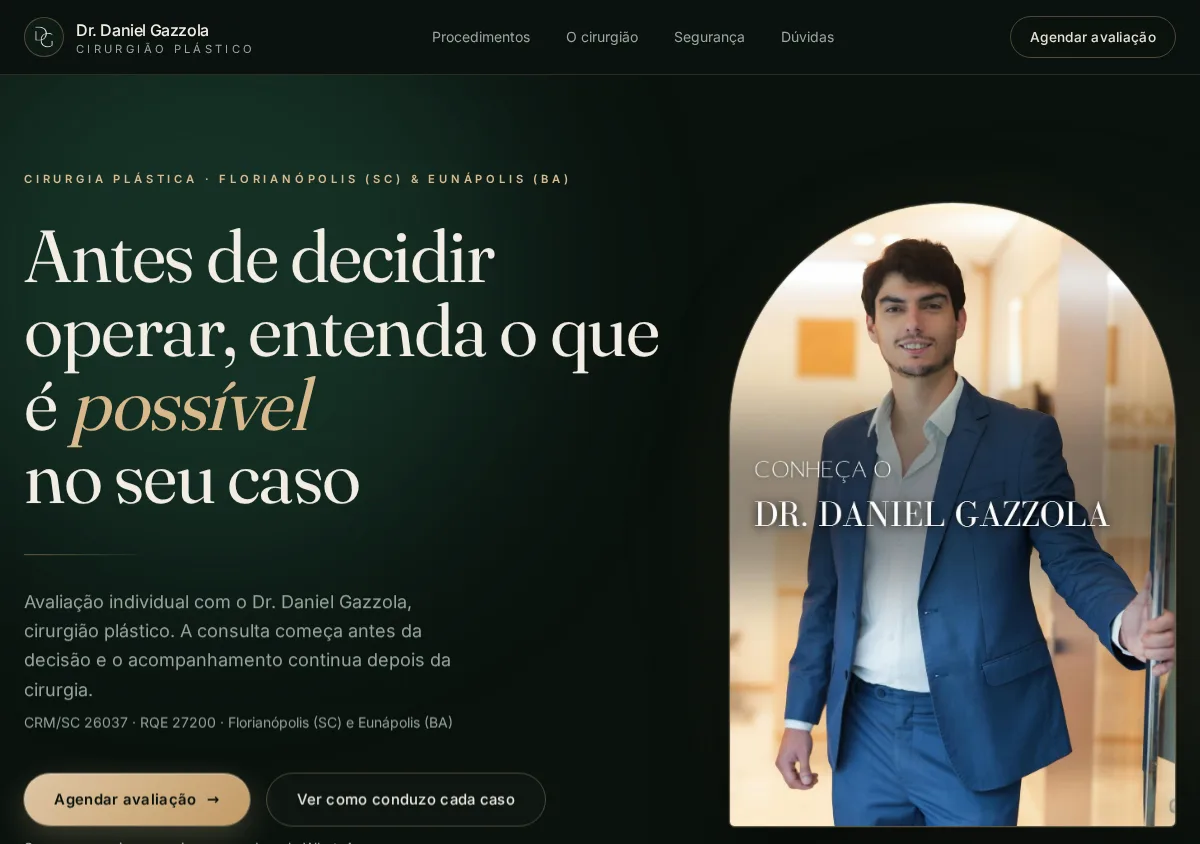
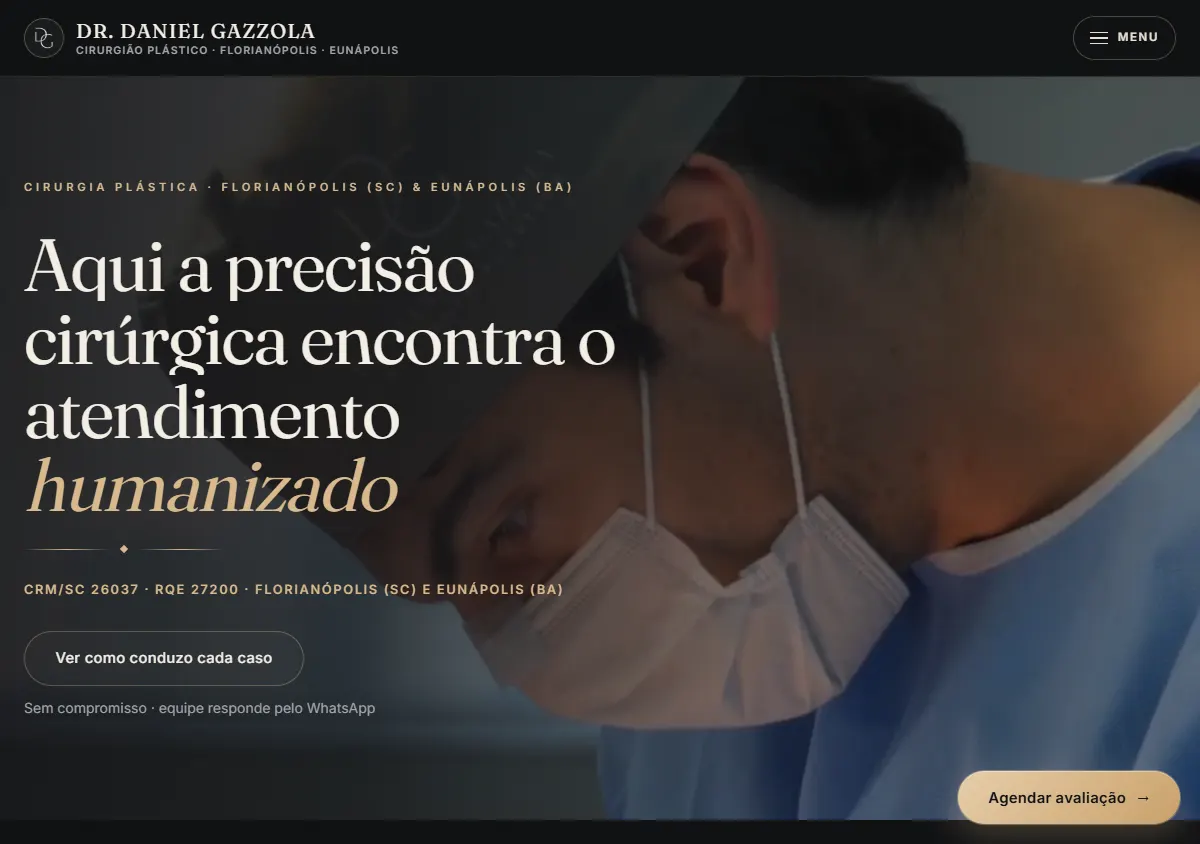
Home: IZMED, Bit e Dra. Lara entram; LicitaCerta, Dr. Daniel e selos atualizados
O Thallis pediu pra atualizar o site com o IZMED, o Bit, o Dr. Daniel e o
LicitaCerta. A vitrine estava parada em 02/09.

Sites de cliente:
- Bit, da Macrobit (novo): a LP refeita e as ferramentas grátis estão no ar em
  bit.macrobit.com.br (conferido em 08/10); captura real da página no ar.
- Dra. Lara Costa (novo): marca, site e papelaria em /dralaracog.
- Dr. Daniel Gazzola: texto e captura do site atual (hero em vídeo, menu,
  botão de agendar flutuante, painel com a campanha de cada contato);
  assets/sites/gazzola.jpg (páginas de cidade) também refeita.
- Dra. Brumna desce pro fim da lista porque ainda não está no ar.

Produtos:
- LicitaCerta: selo "à venda", texto com o app do assinante (resultado,
  certidões), preço por item e calculadora; captura nova.
- IZMED (novo, produto com sócio): selo "em piloto", como diz o próprio site.
- TeAfeta, PeopleAds, Troca de Plantão e Grana: selo "pausado". Seguem no ar
  sem desenvolvimento desde o foco total no LicitaCerta (05/09); uma frase na
  abertura da seção explica.
- TeAfeta aponta pra /lp: até 25/10 a raiz mostra o painel do 2º turno.
- Golden Dragon aponta direto pra dragonkills.fun/v1, destino do nip.io.

llms.txt deixa de citar só Grana e Eunoimóvel.

diff --git a/index.html b/index.html
@@ -181,11 +181,33 @@
         <div class="obra-texto">
           <p class="obra-cat">Cirurgião plástico · Florianópolis e Eunápolis</p>
           <h3 class="obra-nome">Dr. Daniel Gazzola</h3>
-          <p class="obra-desc">Site do consultório feito pra uma coisa só: quem chega procurando o profissional sai com a avaliação marcada. O formulário cai direto no CRM dele, e a página é estática pra abrir rápido no celular da paciente.</p>
+          <p class="obra-desc">Site do consultório feito pra uma coisa só: quem chega procurando o cirurgião sai com a avaliação marcada. Abre com vídeo, leva a paciente direto ao procedimento que a trouxe ali e deixa o botão de agendar sempre à mão; cada contato cai num painel próprio, com a campanha de onde veio.</p>
           <a class="obra-link" href="https://drdanielgazzola.com.br" target="_blank" rel="noopener" data-ev="cliente_clicked" data-ev-local="drdaniel">drdanielgazzola.com.br →</a>
         </div>
         <a class="obra-shot" href="https://drdanielgazzola.com.br" target="_blank" rel="noopener" tabindex="-1" aria-hidden="true" data-ev="cliente_clicked" data-ev-local="drdaniel-shot">
           <img src="assets/dr-daniel-case.webp" alt="Página inicial do site do Dr. Daniel Gazzola" width="1200" height="844" loading="lazy" decoding="async">
+        </a>
+      </article>
+      <article class="obra">
+        <div class="obra-texto">
+          <p class="obra-cat">Assistente financeiro · Macrobit</p>
+          <h3 class="obra-nome">Bit, da Macrobit</h3>
+          <p class="obra-desc">Refiz a página que recebe o anúncio do Bit, o assistente financeiro por mensagem da Macrobit: o botão de testar subiu pra primeira tela do celular, a dor vem antes do produto e o texto só promete o que o app faz hoje. Também fiz as ferramentas grátis que trazem gente do Google, como a calculadora da taxa da maquininha. Tudo no ar, no domínio deles.</p>
+          <a class="obra-link" href="https://bit.macrobit.com.br" target="_blank" rel="noopener" data-ev="cliente_clicked" data-ev-local="bit">bit.macrobit.com.br →</a>
+        </div>
+        <a class="obra-shot" href="https://bit.macrobit.com.br" target="_blank" rel="noopener" tabindex="-1" aria-hidden="true" data-ev="cliente_clicked" data-ev-local="bit-shot">
+          <img src="assets/bit-case.jpg" alt="Página inicial do Bit, assistente financeiro da Macrobit" width="1200" height="844" loading="lazy" decoding="async">
+        </a>
+      </article>
+      <article class="obra obra-invertida">
+        <div class="obra-texto">
+          <p class="obra-cat">Médica · Eunápolis e Porto Seguro, BA</p>
+          <h3 class="obra-nome">Dra. Lara Costa</h3>
+          <p class="obra-desc">Marca, site e papelaria de uma médica recém-formada. O girassol da logo saiu da palavra que ela escolheu pra si, iluminar; o site mostra como é a consulta e leva direto pro WhatsApp, e o receituário, o atestado e o cartão com QR saem da mesma identidade.</p>
+          <a class="obra-link" href="https://thallisribeiro.com.br/dralaracog/" target="_blank" rel="noopener" data-ev="cliente_clicked" data-ev-local="dralaracog">thallisribeiro.com.br/dralaracog →</a>
+        </div>
+        <a class="obra-shot" href="https://thallisribeiro.com.br/dralaracog/" target="_blank" rel="noopener" tabindex="-1" aria-hidden="true" data-ev="cliente_clicked" data-ev-local="dralaracog-shot">
+          <img src="assets/dralaracog-case.jpg" alt="Página inicial do site da Dra. Lara Costa" width="1200" height="844" loading="lazy" decoding="async">
         </a>
       </article>
       <article class="obra">
@@ -249,26 +271,36 @@
       <h2 class="secao-titulo">Produtos que construí pra mim</h2>
       <span class="secao-estado">mesmo processo, mesma mão</span>
     </div>
-    <p class="secao-lead">Antes de fazer site pra você, eu faço pra mim. Tudo aqui eu decidi, construí e publiquei; o que está no ar dá pra abrir e usar agora.</p>
+    <p class="secao-lead">Antes de fazer site pra você, eu faço pra mim. Tudo aqui eu decidi, construí e publiquei; o que está no ar dá pra abrir e usar agora. Os pausados seguem no ar, mas sem desenvolvimento novo enquanto o foco é o LicitaCerta.</p>
     <div class="construindo">
       <article class="proj">
         <a class="proj-shot" href="https://licitacerta.com.br/" target="_blank" rel="noopener" data-ev="produto_clicked" data-ev-local="licitacerta" aria-label="Abrir LicitaCerta">
           <img src="/assets/sites/licitacerta.jpg" alt="" width="640" height="400" loading="lazy" decoding="async">
         </a>
         <div class="proj-corpo">
-          <div class="proj-cabeca"><h3>LicitaCerta</h3><span class="proj-estado">no ar</span></div>
-          <p class="proj-resumo">Você digita o CNPJ, ele lê o seu ramo na Receita e varre o portal nacional de licitações todo dia; o que bate com o que a sua empresa vende chega no WhatsApp. Assinantes pagantes desde setembro.</p>
+          <div class="proj-cabeca"><h3>LicitaCerta</h3><span class="proj-estado proj-estado-venda">à venda</span></div>
+          <p class="proj-resumo">Você digita o CNPJ, ele descobre o que a sua empresa vende e todo dia útil lê, item por item, o que saiu no portal nacional de licitações; o que é do seu ramo chega no WhatsApp. O assinante tem um app com o resultado das licitações que já fecharam e o controle das certidões, e qualquer um consulta de graça o preço por item e a calculadora de preço. Assinantes pagantes desde setembro.</p>
           <a class="proj-link" href="https://licitacerta.com.br/" target="_blank" rel="noopener" data-ev="produto_clicked" data-ev-local="licitacerta-link">licitacerta.com.br →</a>
         </div>
       </article>
       <article class="proj">
-        <a class="proj-shot" href="https://teafeta.com.br" target="_blank" rel="noopener" data-ev="produto_clicked" data-ev-local="teafeta" aria-label="Abrir TeAfeta">
+        <a class="proj-shot" href="https://izmed.com.br/" target="_blank" rel="noopener" data-ev="produto_clicked" data-ev-local="izmed" aria-label="Abrir IZMED">
+          <img src="/assets/sites/izmed.jpg" alt="" width="640" height="400" loading="lazy" decoding="async">
+        </a>
+        <div class="proj-corpo">
+          <div class="proj-cabeca"><h3>IZMED</h3><span class="proj-estado proj-estado-obra">em piloto</span></div>
+          <p class="proj-resumo">Recepção, agenda e financeiro de consultório num lugar só: a conversa com o paciente vira consulta marcada, a equipe acompanha cada contato até a consulta e o financeiro compara o resultado por competência com o caixa. Construo com um sócio; está em piloto assistido, e a demonstração do site dá pra usar agora.</p>
+          <a class="proj-link" href="https://izmed.com.br/" target="_blank" rel="noopener" data-ev="produto_clicked" data-ev-local="izmed-link">izmed.com.br →</a>
+        </div>
+      </article>
+      <article class="proj">
+        <a class="proj-shot" href="https://www.teafeta.com.br/lp" target="_blank" rel="noopener" data-ev="produto_clicked" data-ev-local="teafeta" aria-label="Abrir TeAfeta">
           <img src="/assets/sites/teafeta.jpg" alt="" width="640" height="400" loading="lazy" decoding="async">
         </a>
         <div class="proj-corpo">
-          <div class="proj-cabeca"><h3>TeAfeta</h3><span class="proj-estado">no ar</span></div>
+          <div class="proj-cabeca"><h3>TeAfeta</h3><span class="proj-estado proj-estado-pausa">pausado</span></div>
           <p class="proj-resumo">Lê a Câmara e o Diário Oficial todo dia e separa a regra que afeta alguém do ruído de processo. A mesma apuração vira alerta pra quem foi afetado e página de busca pra quem procura.</p>
-          <a class="proj-link" href="https://teafeta.com.br" target="_blank" rel="noopener" data-ev="produto_clicked" data-ev-local="teafeta-link">teafeta.com.br →</a>
+          <a class="proj-link" href="https://www.teafeta.com.br/lp" target="_blank" rel="noopener" data-ev="produto_clicked" data-ev-local="teafeta-link">teafeta.com.br →</a>
         </div>
       </article>
       <article class="proj">
@@ -276,7 +308,7 @@
           <img src="/assets/sites/peopleads.jpg" alt="" width="640" height="400" loading="lazy" decoding="async">
         </a>
         <div class="proj-corpo">
-          <div class="proj-cabeca"><h3>PeopleAds</h3><span class="proj-estado">no ar</span></div>
+          <div class="proj-cabeca"><h3>PeopleAds</h3><span class="proj-estado proj-estado-pausa">pausado</span></div>
           <p class="proj-resumo">Marca quer anúncio que não pareça anúncio, e quem grava esse vídeo é gente com 500 a 10 mil seguidores. O creator cria perfil de graça, a marca assina e manda proposta direto.</p>
           <a class="proj-link" href="https://peopleads.app" target="_blank" rel="noopener" data-ev="produto_clicked" data-ev-local="peopleads-link">peopleads.app →</a>
         </div>
@@ -286,7 +318,7 @@
           <img src="/assets/sites/trocaplantao.jpg" alt="" width="640" height="400" loading="lazy" decoding="async">
         </a>
         <div class="proj-corpo">
-          <div class="proj-cabeca"><h3>Troca de Plantão</h3><span class="proj-estado">no ar</span></div>
+          <div class="proj-cabeca"><h3>Troca de Plantão</h3><span class="proj-estado proj-estado-pausa">pausado</span></div>
           <p class="proj-resumo">Plantão vago vira quarenta mensagens num grupo de WhatsApp. Aqui você publica uma vez e sai um link: quem tem a especialidade e está na cidade se candidata, conversa e confirma.</p>
           <a class="proj-link" href="https://trocaplantao.72-61-134-210.nip.io" target="_blank" rel="noopener" data-ev="produto_clicked" data-ev-local="trocaplantao-link">Abrir o Troca de Plantão →</a>
         </div>
@@ -296,7 +328,7 @@
           <img src="/assets/sites/grana.jpg" alt="" width="640" height="400" loading="lazy" decoding="async">
         </a>
         <div class="proj-corpo">
-          <div class="proj-cabeca"><h3>Grana</h3><span class="proj-estado">no ar</span></div>
+          <div class="proj-cabeca"><h3>Grana</h3><span class="proj-estado proj-estado-pausa">pausado</span></div>
           <p class="proj-resumo">App de finanças que abre respondendo uma pergunta só: quanto custa o seu dia. Fiz do primeiro cálculo até a assinatura ativa.</p>
           <a class="proj-link" href="https://suagrana.app" target="_blank" rel="noopener" data-ev="produto_clicked" data-ev-local="grana-link">suagrana.app →</a>
         </div>
@@ -312,13 +344,13 @@
         </div>
       </article>
       <article class="proj">
-        <a class="proj-shot" href="https://lgd.72-61-134-210.nip.io" target="_blank" rel="noopener" data-ev="produto_clicked" data-ev-local="lgd" aria-label="Abrir Legend of the Golden Dragon">
+        <a class="proj-shot" href="https://dragonkills.fun/v1" target="_blank" rel="noopener" data-ev="produto_clicked" data-ev-local="lgd" aria-label="Abrir Legend of the Golden Dragon">
           <img src="/assets/sites/lgd.jpg" alt="" width="640" height="400" loading="lazy" decoding="async">
         </a>
         <div class="proj-corpo">
           <div class="proj-cabeca"><h3>Legend of the Golden Dragon</h3><span class="proj-estado">no ar</span></div>
           <p class="proj-resumo">Remake em navegador de um jogo de turnos diários de 2002, com luta, evolução e PvP assíncrono. Feito pra provar que dá pra entregar um jogo inteiro com o mesmo processo de um site.</p>
-          <a class="proj-link" href="https://lgd.72-61-134-210.nip.io" target="_blank" rel="noopener" data-ev="produto_clicked" data-ev-local="lgd-link">Jogar agora →</a>
+          <a class="proj-link" href="https://dragonkills.fun/v1" target="_blank" rel="noopener" data-ev="produto_clicked" data-ev-local="lgd-link">Jogar agora →</a>
         </div>
       </article>
       <article class="proj">
